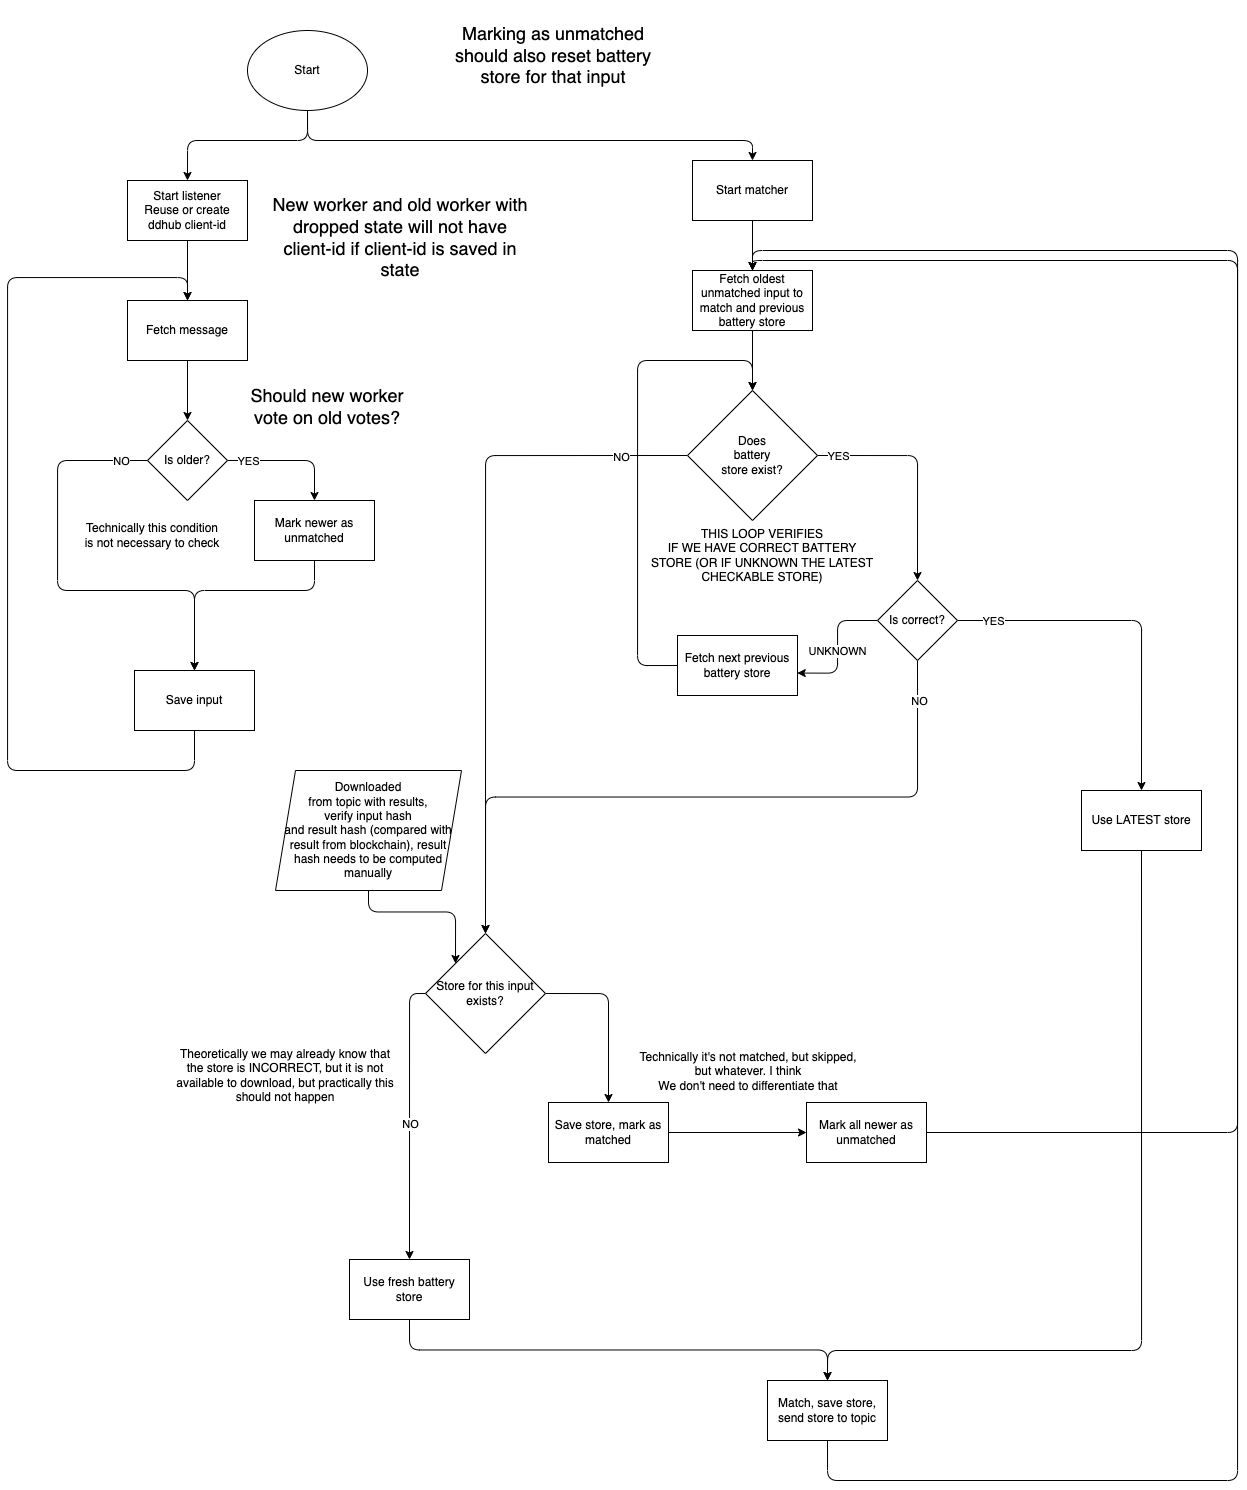
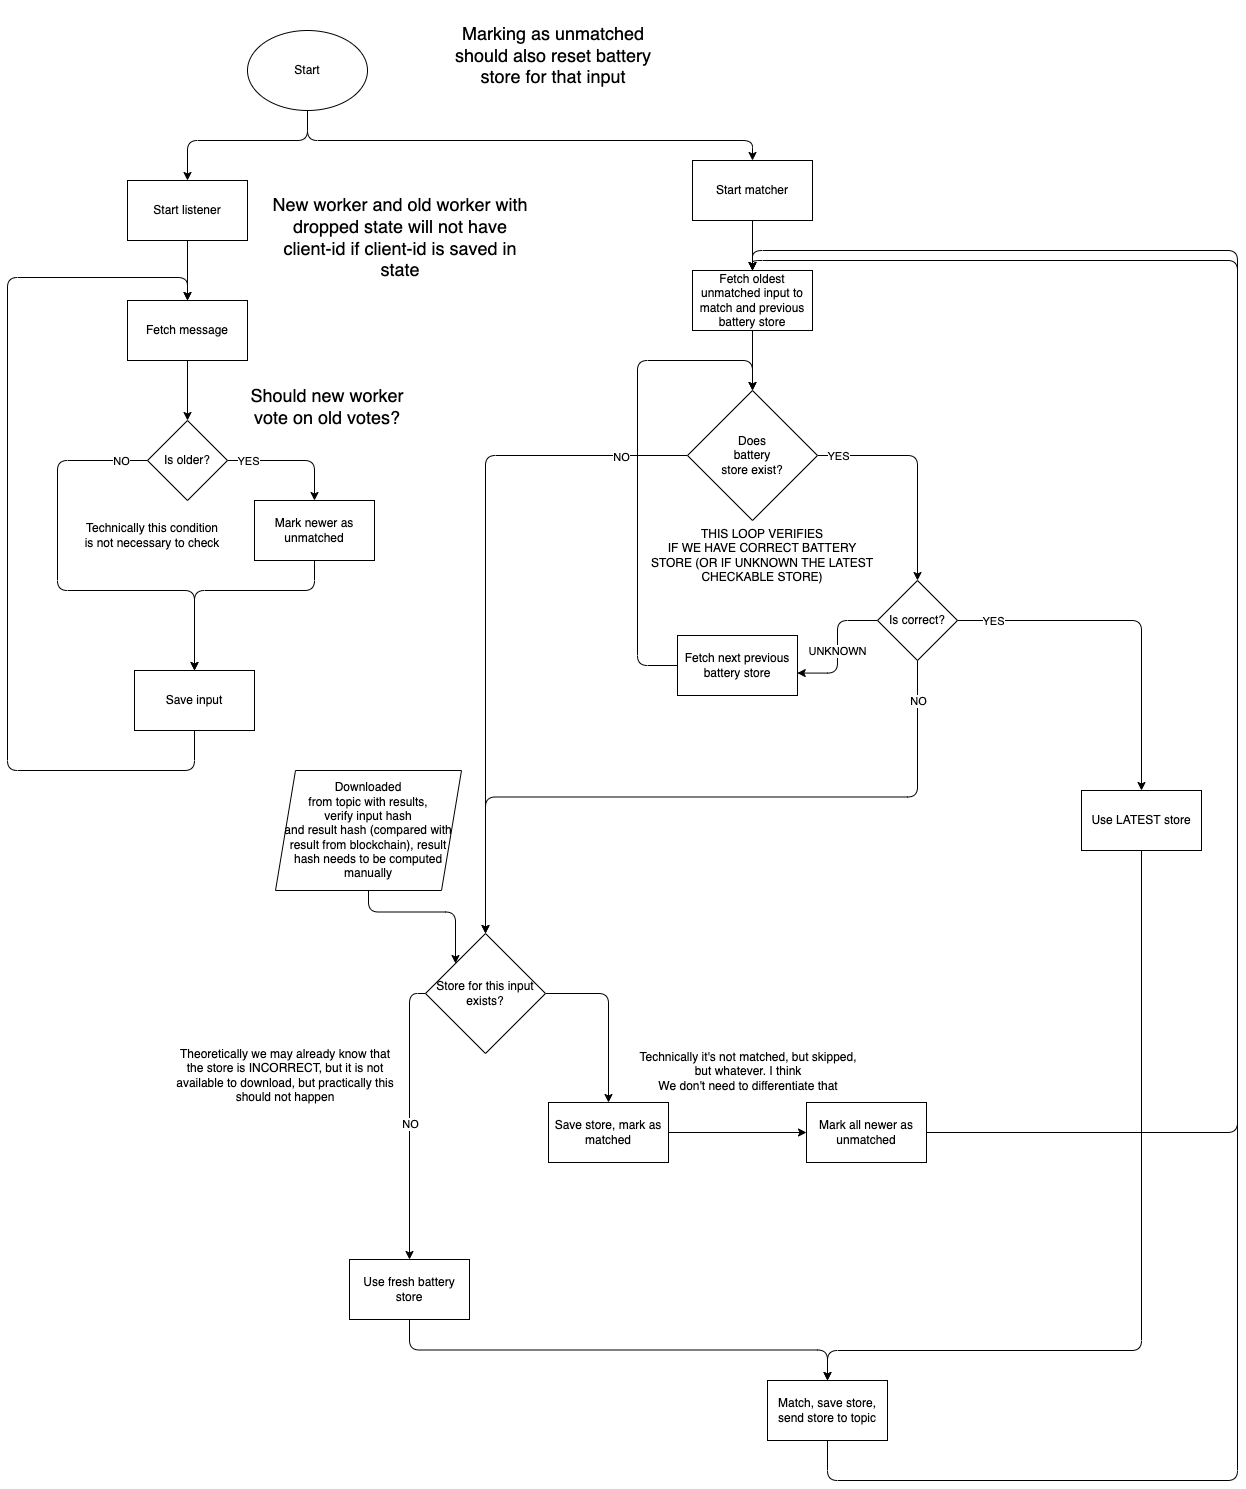
chore: ddhub clean up

diff --git a/packages/worker-example/src/matching/receivers/matching-result-kafka.receiver.ts b/packages/worker-example/src/matching/receivers/matching-result-kafka.receiver.ts
@@ -7,7 +7,7 @@ export const getMatchingResultKafkaSender = async (): Promise<MatchingResultRece
   const producer = kafka.producer();
   await producer.connect();
   return async (result) => {
-    console.log(`Sending result to ddhub results topic: ${result.result.resultHash}`);
+    console.log(`Sending result to results topic: ${result.result.resultHash}`);
     await producer.send({ topic: appConfig.messagingConfig.matchingResultTopicName, messages: [
       {
         value: JSON.stringify(result.result),

diff --git a/packages/worker-example/src/config/app-config.ts b/packages/worker-example/src/config/app-config.ts
@@ -92,7 +92,7 @@ const prepareConfig = (): Readonly<Config> => {
     },
     nodeEnv: (process.env.NODE_ENV! as Env) ?? Env.DEV,
     messagingConfig: {
-      url: process.env.DDHUB_URL!,
+      url: process.env.COMMUNICATION_URL!,
       matchingResultTopicName: process.env.MATCHING_RESULT_TOPIC_NAME! ?? 'result',
       inputTopicName: process.env.INPUT_TOPIC_NAME! ?? 'input',
     },

diff --git a/packages/worker-example/test/jest-unit.js b/packages/worker-example/test/jest-unit.js
@@ -1,5 +1,5 @@
 process.env.NODE_ENV = 'test';
-process.env.DDHUB_URL = 'http://localhost:3000';
+process.env.COMMUNICATION_URL = 'http://localhost:3000';
 process.env['PORT'] = '3030';
 process.env['RPC_HOST'] = 'http://localhost:8545';
 process.env['DIAMOND_CONTRACT_ADDRESS'] = '0x5fbdb2315678afecb367f032d93f642f64180aa3';
